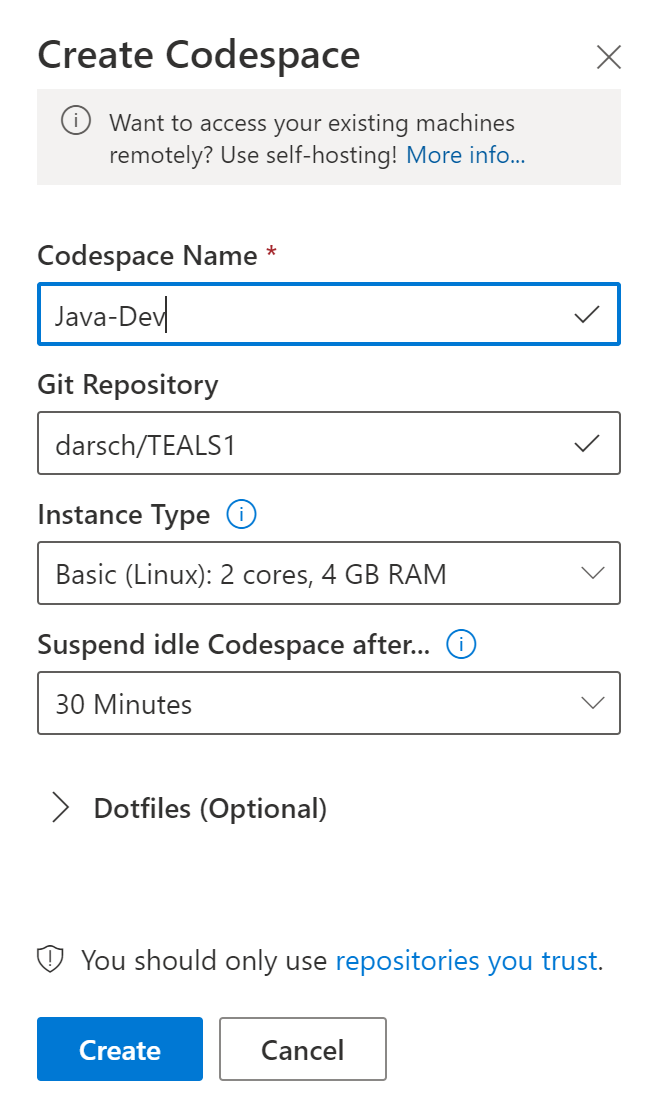
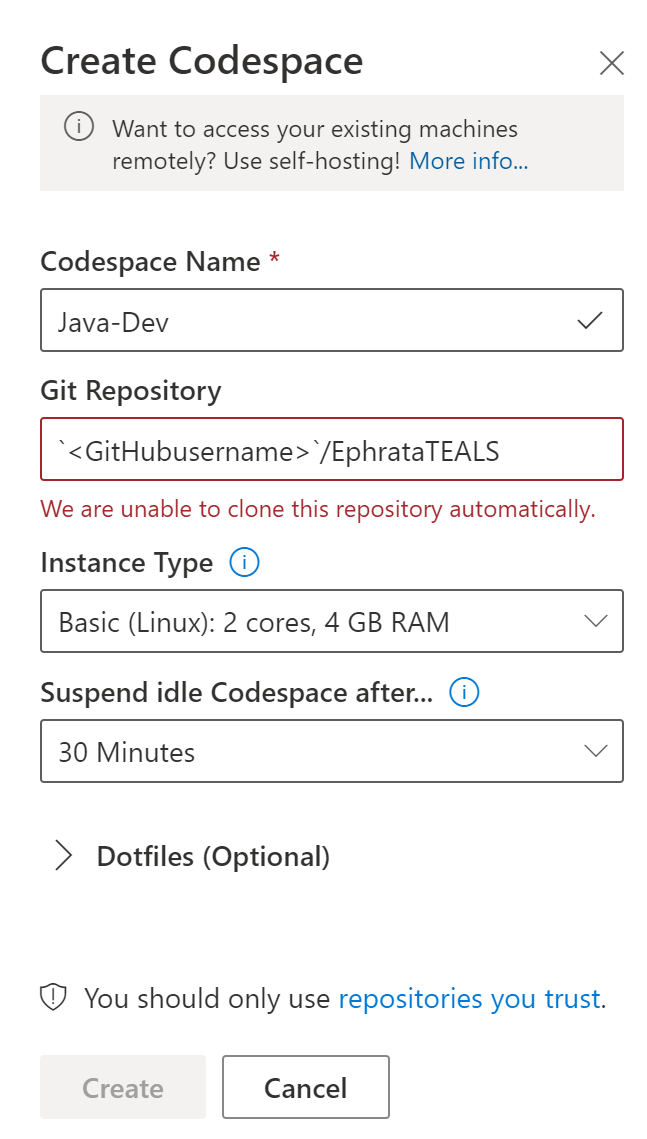
imageUpdate

diff --git a/README.md b/README.md
@@ -20,11 +20,13 @@ Creating an Azure for Student subscription is a three-step process.
 
 Click [HERE](https://github.com/DataSnowman/EphrataTEALS/tree/master/docs/AzureForStudentVerificationActivation.pdf) to open the AzureForStudentVerificationActivation.pdf which has more details.
 
+Here are the basic directions if you don't use the pdf.
+
 `Step 1:` Create a new Outlook.com email account:
 
 Open a new In-Private Browser session and navigate to https://signup.live.com and create a new Outlook.com email account
 
-* Click on the Get A New Email Address button
+* Click on the `Get A New Email Address` button
 * Add in the email address you would like to use - if the username is not
 available Microsoft will offer several suggestions
 * Create a new password for the account
@@ -83,7 +85,7 @@ If you don't already have a GitHub Username you can [Create one HERE](https://gi
 
     ![yourcopy](https://raw.githubusercontent.com/DataSnowman/EphrataTEALS/master/images/yourcopy.png)
 
-    My username was darsch so the repository shows up as darsh/EphrataTEALS.  Yours should be `<GitHubusername>/EphrataTEALS'
+    My username was darsch so the repository shows up as darsh/EphrataTEALS.  Yours should be `<GitHubusername>`/EphrataTEALS
 
 
 ### Visual Studio Online Codespace - Configure your Codespace
